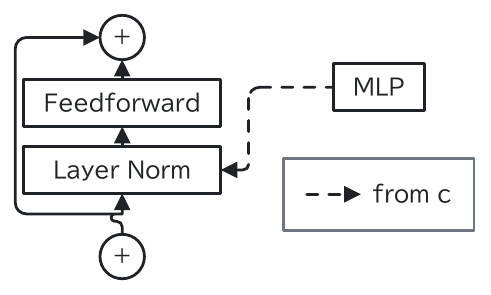
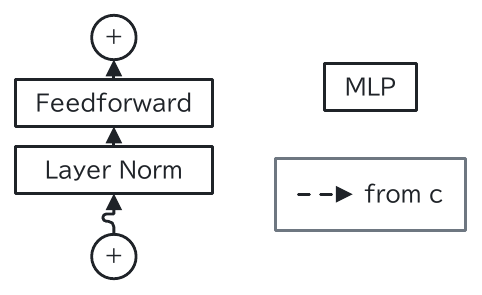
docs(research): correct the A1 trigger and A2 cause in the v0.5.1 dogfood record

diff --git a/research/151-dogfood-v0.5/README.md b/research/151-dogfood-v0.5/README.md
@@ -129,16 +129,35 @@
 
 | # | 内容 | 頻度 | 種類 | 根拠（src 確認） |
 | --- | --- | --- | --- | --- |
-| A1 | **⊕ からすぐ上の hidden junction へのまっすぐな線が、S 字に迂回して junction に西から入る**。同じ図に `legend` と、別のノードへの破線（`fromAnchor` / `toAnchor` 付き）の両方があるときだけ起きる（どちらかを消すとまっすぐ）。凡例の位置を変えると消えることもある | 図 2（5〜7 回目） | 不具合 | `repro/junction-detour.sumi.yaml`、`previews/repro-junction-detour.png`。SVG の経路は `M 88 168.7 L 88 159.3 L 80 159.3 L 80 154.0 L 88 154.0`（同じ x への寄り道）。原因は未特定。junction の端は向きを持たない（`src/layout/route/ports.ts` 927 行 `junction: true, dir: -1`）ので、凡例の見本の辺が加わったときの経路探索の順序か、junction ネットの扱いが疑わしい |
-| A2 | **`figure.layout.align` が図を黙って大きくする**。単独の stack に入れた junction と、入れ子の group の中の gateway を `y` で揃えると、junction を動かさずに gateway の枝の上に空きを足し、図 4 では 125.8 → 188.4mm、再現では 90 → 126.8mm になった。制約は満たされるので診断は出ない | 図 4（4 回目） | 分かりにくい（挙動は設計どおり） | `repro/align-grows-figure.sumi.yaml`、`previews/repro-align-grows-figure.png`。`src/layout/structured/align.ts` 冒頭のコメント: 上にある項目の前に `lead` を足して押し下げ、候補は残差の合計だけで選ぶ（図の大きさは見ない）。中央寄せの box の中の単独項目は `trail` では上がらない。少なくとも「align で高さが X mm 増えた」という info と、Skill への注意書きが要る |
-| A3 | **下から入る辺が group の `caption` を避けて大きく回り込む**。キャプションは group の下に固定で、ルータはそれを障害物として扱う。診断なし | 図 2（1 回目） | 分かりにくい（挙動は設計どおり）・Skill の不足 | `repro/caption-blocks-input.sumi.yaml`、`previews/repro-caption-blocks-input.png`。`src/layout/route/router.ts` 489・569 行（キャプションを「in the way」として扱う）。Skill（structured.md）は「位置は固定」と書くが、下から入る辺がある group には付けるな、とは書いていない |
-| A4 | **単一引用符のラベルで `\n` が改行にならず「\n」と描かれる**。Skill は「数式は単一引用符で」「`\n` は二重引用符の中で」と別々に書いており、両方を使う（`Scale, Shift` の 2 行目に数式）と気付きにくい。診断なし | 図 2（2 回目） | 分かりにくい診断・Skill の不足 | `repro/single-quote-newline.sumi.yaml`、`previews/repro-single-quote-newline.png`。ラベルに文字どおりの `\n`（バックスラッシュ + n）があれば lint で警告し、hint で `"…\n$\\gamma$"` の書き方を示すのが安価 |
+| A1 | **⊕ からすぐ上の hidden junction へのまっすぐな線が、S 字に迂回して junction に西から入る**。v0.5.1 で要素を 1 つずつ消して確かめた（下の「A1 の切り分け」）。隣の列に `legend` があり、その上に別のノード（`MLP`）が並ぶときに起きる。凡例・`MLP`・`Feedforward` のどれかを消す、または凡例を `MLP` の上に置くとまっすぐになる。凡例と `MLP` に辺がなくても起き、MLP からの破線の辺（初版の記述）や残差の辺は条件ではない | 図 2（5〜7 回目） | 不具合 | `repro/junction-detour.sumi.yaml`（最小化した再現）、`previews/repro-junction-detour.png`。SVG の経路は `M 82 168.7 L 82 159.3 L 74 159.3 L 74 154.0 L 82 154.0`（同じ x への寄り道）。原因は未特定。凡例の見本の線は hidden junction 2 つ（`key-1-start` / `-end`）を結ぶ辺として描かれ、junction の端は向きを持たない（`src/layout/route/ports.ts` 927 行 `junction: true, dir: -1`）ので、凡例の junction と本文の junction の扱い（ネットの結合・経路探索の順序）が疑わしい |
+| A2 | **`figure.layout.align` が図を黙って大きくする**。単独の stack に入れた junction と、入れ子の group の中の gateway を `y` で揃えると、gateway の枝の上に空きを足して押し下げ、図 4 では 125.8 → 188.4mm、再現では 89.96 → 126.82mm になった（再現の SVG で、junction の中心 y は 254.854 → 359.363、gateway の上端 y は 133.339 → 342.357 units。junction も図の中央寄せで下がる）。制約は満たされるので診断は出ない | 図 4（4 回目） | 分かりにくい（挙動は設計どおり） | `repro/align-grows-figure.sumi.yaml`、`previews/repro-align-grows-figure.png`。src 確認: junction を上げる手段はある。`trail` の strut は入れ子の stack の自然な大きさに含まれる（`src/layout/structured/engine.ts` 304〜333 行付近）ので、中央寄せでも単独の項目は上がり、`align.ts` も `trail` の候補を評価している（174〜177 行）。ただし候補は残差の合計だけで比べ、同じ残差なら先の候補（上の項目の前の `lead`）を残す（209〜212 行）。中央寄せではどちらの候補も 1 回で差の半分しか縮まず残差が並ぶため、毎回 `lead` が選ばれて図が伸びる。原因は「残差だけの選択と同点の扱い」で、図の大きさを見ないこと。少なくとも「align で高さが X mm 増えた」という info と、Skill への注意書きが要る |
+| A3 | **下から入る辺が group の `caption` を避けて大きく回り込む**。キャプションは group の下に固定で、ルータはそれを障害物として扱う。診断なし | 図 2（1 回目） | 分かりにくい（挙動は設計どおり）・Skill の不足 | `repro/caption-blocks-input.sumi.yaml`、`previews/repro-caption-blocks-input.png`。src 確認: キャプションは `captionOf` を持つ label ノードに展開され（`src/compiler/ir.ts` 414 行）、ルータは配置済みのノードをすべて障害物にする（`src/layout/route/router.ts` 744 行 `#obstacles = layout.nodes…`）ので、キャプションも避ける対象になる。Skill（structured.md）は「位置は固定」と書くが、下から入る辺がある group には付けるな、とは書いていない |
+| A4 | **単一引用符のラベルで `\n` が改行にならず「\n」と描かれる**。Skill は「数式は単一引用符で」「`\n` は二重引用符の中で」と別々に書いており、両方を使う（`Scale, Shift` の 2 行目に数式）と気付きにくい。診断なし | 図 2（2 回目） | 分かりにくい診断・Skill の不足 | `repro/single-quote-newline.sumi.yaml`、`previews/repro-single-quote-newline.png`。数式の外（平文の部分）に文字どおりの `\n`（バックスラッシュ + n）があれば lint で警告し、hint で `"…\n$\\gamma$"` の書き方を示す。`$...$` の中の `\nu` `\neq` `\nabla` などのコマンドは対象外にする必要があり、数式の区切り（`\$` を含む）を正しく見分ける実装とテストが要る |
 | A5 | **junction への `toAnchor` / `fromAnchor` が黙って無視される** | 図 2（6 回目） | 分かりにくい診断 | `src/layout/route/ports.ts` 927 行: junction の端は anchor を見ずに中心を返す。警告（`layout/anchor-on-junction` など）が要る |
-| A6 | **線と枠・見出しの近接を幾何 lint が見ない**: (1) 線が group の枠線の上を走る（図 4 の Python SDK → gateway が API tier / Workers の左の枠に重なる）、(2) spread の 3 本が 1〜2px 間隔で並ぶ、(3) 見出しを避けた線が見出しの文字に接する（図 2 の「DiT」、図 4 の「GPU pool」）。(3) は Skill に「診断なしで迂回する」と書いてあるが、接触までは書いていない | 図 2・4 | lint の穴 | #109 A9（ラベルが枠線に乗る）と同じ系統。`src/lint/geometry/rules.ts` の規則は `edge-crosses-label`（交差）までで、線と枠線の重なり・近接の規則はない |
+| A6 | **線と枠・見出しの近接を幾何 lint が見ない**: (1) 線が group の枠線の上を走る（図 4 の Python SDK → gateway が API tier / Workers の左の枠に重なる）、(2) spread の 3 本が 1〜2px 間隔で並ぶ、(3) 見出しを避けた線が見出しの文字に接する（図 2 の「DiT」、図 4 の「GPU pool」）。(3) は Skill に「診断なしで迂回する」と書いてあるが、接触までは書いていない | 図 2・4 | lint の穴 | src 確認: ラベルと枠線の重なり（#109 A9）はすでに `geometry/label-collision` が見ている（`src/lint/geometry/rules.ts` 440〜469 行付近）。足りないのは**辺（線）と枠線**の重なり・近接、線どうしの近接、線と見出しの接触で、`edge-crosses-label` は交差しか見ない。既存の検査を線にも広げる形になる |
 | A7 | **`container` の `muted` が `academic` では破線の枠**になる（`color` では薄い枠）。Skill も catalog も見た目を書いていない。panel を目立たなくするつもりで使うと、破線の辺（skip など）と紛らわしい | 図 2・3 | Skill の不足 | catalog の説明は `default,muted` のみ |
 | A8 | 破線の共有幹線の T 字分岐が、角の丸めで「›」の印のように見える | 図 2 | 見た目（軽微） | `previews/dit-block.png` の MLP からの破線の分岐点 |
 | A9 | `labelAt: middle, labelSide: right` のラベルが、別の辺の矢じりの真上に置かれ、その辺のラベルに読める。重なってはいないので診断なし | 図 3（4 回目） | 見た目（軽微） | — |
 | A10 | `layout/edge-crossing`（info）が 1 件ごとに同じ長い hint を繰り返す（図 4 の初版で 6 件 × 約 400 字） | 図 4 | 診断の読みやすさ（軽微） | 2 件目以降は hint を省くか、要約に 1 回だけ |
+
+#### A1 の切り分け
+
+最初の再現（図 2 を縮めたもの: 上の列に MLP からの破線の辺と残差の辺あり）から、v0.5.1 で 1 つずつ消して ⊕ → junction の経路を見た。
+
+| 変更 | 経路 |
+| --- | --- |
+| そのまま | S 字 |
+| MLP からの破線の辺を消す | S 字 |
+| その辺の `dashed` / anchor を外す | S 字 |
+| 残差の辺（`split2 → add2`）を消す | S 字 |
+| 凡例を消す | まっすぐ |
+| `MLP` ノードを消す | まっすぐ |
+| `Feedforward` を消す | まっすぐ |
+| 上の 2 つの辺を両方消す（= `repro/junction-detour.sumi.yaml`） | S 字 |
+| その再現で凡例を `MLP` の上に置く（`[ mlp, key ]`） | まっすぐ |
+| その再現で凡例の見本を `node` にする | S 字 |
+
+初版の記録（「凡例と、別のノードへの破線の辺の両方があるとき」）は誤りだった。図 2 の 7 回目では凡例を上に置いても S 字が残ったので、位置の条件は図によって違う。
 
 ### (b) 段階 C の候補（欲しかった機能）
 
@@ -163,9 +182,9 @@
 ## 推奨する優先順位
 
 1. **A1（junction への S 字の迂回）**: 線の意味は変わらないが、論文図ではよく目に付く。再現があるので原因を特定して直す。
-2. **A4・A5（黙って起きる文字どおりの `\n`、junction の anchor の無視）**: 警告を足すだけで済み、安価。
+2. **A5・A4（junction の anchor の無視、文字どおりの `\n`）**: どちらも警告を足す。A5 は小さい。A4 は数式の中のコマンド（`\nu` `\neq` `\nabla`）を誤検出しないよう、平文の部分だけを見る実装とテストが要る。
 3. **A2・A3（`align` による拡大、キャプションを避ける迂回）**: まず info / 警告と Skill の注意書き（v0.5.x）。根本の解き方の変更は段階 C（C7）。
-4. **A6（線と枠線・見出しの近接の lint）**: #109 A9 とまとめて幾何 lint に 1 規則。
+4. **A6（線と枠線・見出しの近接の lint）**: ラベルと枠線は `geometry/label-collision` が見ているので、その検査を辺（線）と枠線・見出し、線どうしの近接に広げる。
 5. **A7〜A10**: Skill の追記と軽微な見た目・出力の調整。
 6. 段階 C は頻度と効果から **C1（真上で入る端）・C3（枠のない panel）**、次に **C5（見出しの自動配置）・C4（要素ごとの fanIn）・C2（トークン列・行列）**。
 
@@ -175,12 +194,12 @@
 
 | # | タイトル（案） | 分類 | 根拠 | マイルストーン（案） |
 | --- | --- | --- | --- | --- |
-| 1 | fix(route): straight edge into a hidden junction detours when a legend is present | すぐ直す（不具合） | A1、`repro/junction-detour.sumi.yaml` | v0.5.2 |
-| 2 | feat(lint): warn about a literal `\n` in a label (single-quoted math labels) | すぐ直す（診断） | A4、`repro/single-quote-newline.sumi.yaml` | v0.5.2 |
+| 1 | fix(route): straight edge into a hidden junction detours when a legend sits below another node in the next column | すぐ直す（不具合） | A1、`repro/junction-detour.sumi.yaml`（辺のない凡例と MLP ノードだけで起きる） | v0.5.2 |
+| 2 | feat(lint): warn about a literal `\n` in the plain-text part of a label | すぐ直す（診断） | A4、`repro/single-quote-newline.sumi.yaml`（`$...$` 内の `\nu` などは対象外） | v0.5.2 |
 | 3 | feat(layout): warn when fromAnchor / toAnchor is set on a junction end | すぐ直す（診断） | A5、図 2 の 6 回目 | v0.5.2 |
 | 4 | feat(layout): report how much `align` grew the figure | すぐ直す（診断） | A2、`repro/align-grows-figure.sumi.yaml` | v0.5.2 |
 | 5 | docs(skill): captions block edges from below; `muted` containers are dashed in academic; quoting math with line breaks | すぐ直す（Skill） | A3・A4・A7 | v0.5.2 |
-| 6 | feat(lint): detect edges running on group borders or touching titles | すぐ直す（lint の穴） | A6、#109 A9 | v0.5.2 または段階 C |
+| 6 | feat(lint): extend border and title checks from labels to edges (edge on or near a group border, edges nearly overlapping, edge touching a title) | すぐ直す（lint の穴） | A6（ラベルと枠線は `label-collision` が検査済み） | v0.5.2 または段階 C |
 | 7 | feat(route): enter a wide block straight above the source | 段階 C | C1、図 1・4 | 段階 C |
 | 8 | feat: frameless panels for sub-figures | 段階 C | C3、図 2・3 | 段階 C |
 | 9 | feat(route): per-element fan-in mode | 段階 C | C4、図 4 | 段階 C |
